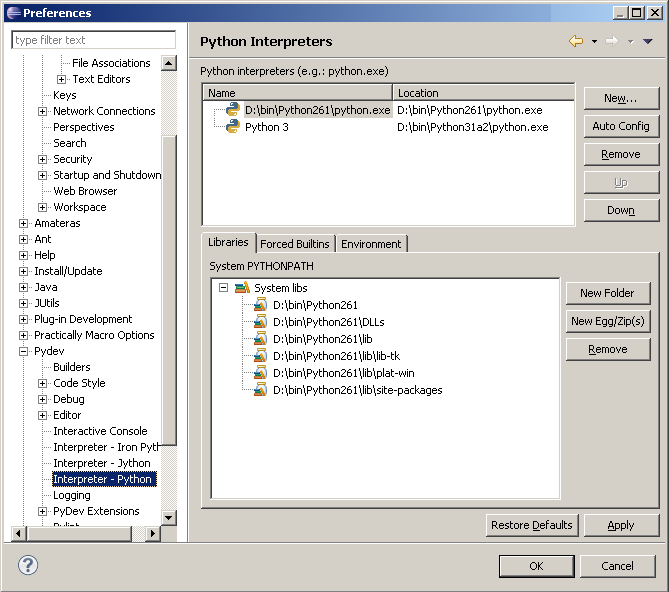
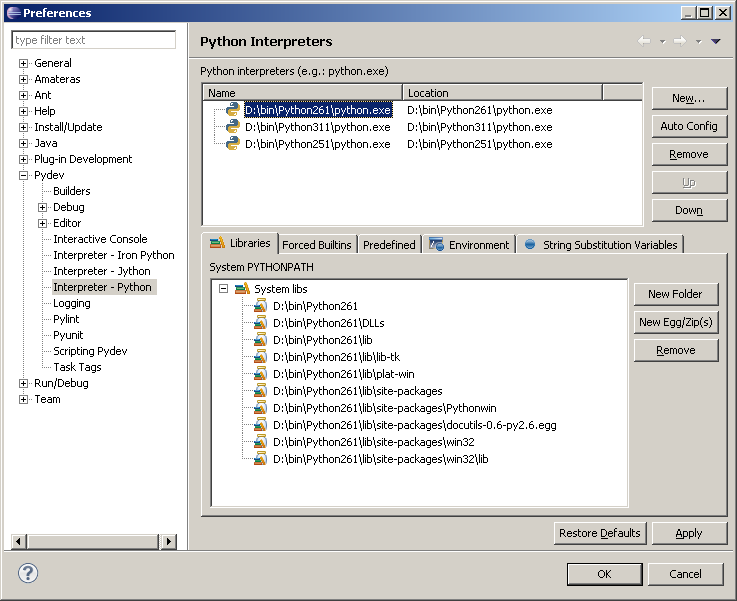
Updating homepage to prepare for upcoming release / new line fixes.

Changed region(s): [[0.0, 0.0, 1.0, 1.0], [0.8969, 0.0, 1.0, 0.0304]]

diff --git a/plugins/com.python.pydev.docs/merged_homepage/manual_101_interpreter.contents.html b/plugins/com.python.pydev.docs/merged_homepage/manual_101_interpreter.contents.html
@@ -5,22 +5,24 @@
 <div class="contents topic" id="contents">
 <p class="topic-title first">Contents</p>
 <ul class="simple">
-<li><a class="reference internal" href="#configure-interpreter" id="id2">Configure Interpreter</a><ul>
-<li><a class="reference internal" href="#how-to-check-if-the-information-was-correctly-gotten" id="id3">How to check if the information was correctly gotten</a><ul>
-<li><a class="reference internal" href="#what-if-it-is-not-correct" id="id4">What if it is not correct?</a></li>
-<li><a class="reference internal" href="#what-if-i-add-something-new-in-my-system-pythonpath-after-configuring-it" id="id5">What if I add something new in my System PYTHONPATH after configuring it?</a></li>
+<li><a class="reference internal" href="#configure-interpreter" id="id3">Configure Interpreter</a><ul>
+<li><a class="reference internal" href="#how-to-check-if-the-information-was-correctly-gotten" id="id4">How to check if the information was correctly gotten</a><ul>
+<li><a class="reference internal" href="#what-if-it-is-not-correct" id="id5">What if it is not correct?</a></li>
+<li><a class="reference internal" href="#what-if-i-add-something-new-in-my-system-pythonpath-after-configuring-it" id="id6">What if I add something new in my System PYTHONPATH after configuring it?</a></li>
 </ul>
 </li>
-<li><a class="reference internal" href="#libraries" id="id6">Libraries</a></li>
-<li><a class="reference internal" href="#id1" id="id7">Forced Builtins</a></li>
-<li><a class="reference internal" href="#environment" id="id8">Environment</a></li>
-<li><a class="reference internal" href="#cygwin-users" id="id9">Cygwin users</a></li>
+<li><a class="reference internal" href="#libraries" id="id7">Libraries</a></li>
+<li><a class="reference internal" href="#id1" id="id8">Forced Builtins</a></li>
+<li><a class="reference internal" href="#id2" id="id9">Predefined Completions</a></li>
+<li><a class="reference internal" href="#environment" id="id10">Environment</a></li>
+<li><a class="reference internal" href="#string-substitution-variables" id="id11">String substitution variables</a></li>
+<li><a class="reference internal" href="#cygwin-users" id="id12">Cygwin users</a></li>
 </ul>
 </li>
 </ul>
 </div>
 <div class="section" id="configure-interpreter">
-<h1><a class="toc-backref" href="#id2">Configure Interpreter</a></h1>
+<h1><a class="toc-backref" href="#id3">Configure Interpreter</a></h1>
 <p>After installing it, the first thing you must do is configure the <strong>Python and/or Jython and/or IronPython</strong> interpreter.
 To configure the interpreter:</p>
 <ol class="arabic">
@@ -37,14 +39,14 @@ To configure the interpreter:</p>
 <p>After those steps, you should have a screen as presented below:</p>
 <div align="center" class="align-center"><img alt="images/interpreter.png" class="snap align-center" src="images/interpreter.png" /></div>
 <div class="section" id="how-to-check-if-the-information-was-correctly-gotten">
-<h2><a class="toc-backref" href="#id3">How to check if the information was correctly gotten</a></h2>
+<h2><a class="toc-backref" href="#id4">How to check if the information was correctly gotten</a></h2>
 <blockquote>
 <p>The <strong>System libs</strong> must contain at least the Lib and the Lib/site-packages directory.</p>
 <p>The <strong>Forced builtin libs</strong> must contain the modules built into the interpreter (and others whose
 analysis should be done dynamically. See: <a class="reference internal" href="#forced-builtins">Forced Builtins</a>).</p>
 </blockquote>
 <div class="section" id="what-if-it-is-not-correct">
-<h3><a class="toc-backref" href="#id4">What if it is not correct?</a></h3>
+<h3><a class="toc-backref" href="#id5">What if it is not correct?</a></h3>
 <blockquote>
 <p>The most common error is having a problem in the environment variables used from the shell that spawned Eclipse,
 in a way that for some reason when getting the variables of one interpreter, it gathers the info from another
@@ -63,7 +65,7 @@ executing interpreterInfo.py in your machine).</p>
 </blockquote>
 </div>
 <div class="section" id="what-if-i-add-something-new-in-my-system-pythonpath-after-configuring-it">
-<h3><a class="toc-backref" href="#id5">What if I add something new in my System PYTHONPATH after configuring it?</a></h3>
+<h3><a class="toc-backref" href="#id6">What if I add something new in my System PYTHONPATH after configuring it?</a></h3>
 <blockquote>
 <p>If you add something to your python installation, you need to either
 add it manually as a 'new folder' in the System PYTHONPATH (if it's still not under a folder in the PYTHONPATH)
@@ -75,7 +77,7 @@ is done, things are set in stone for Pydev)</p>
 </div>
 </div>
 <div class="section" id="libraries">
-<h2><a class="toc-backref" href="#id6">Libraries</a></h2>
+<h2><a class="toc-backref" href="#id7">Libraries</a></h2>
 <blockquote>
 <p>The <strong>System libs</strong> are the libraries that will be added to the PYTHONPATH of any project that is using this interpreter.</p>
 <p>For <strong>Python and IronPython</strong>, it's composed of <strong>folders, zip files and egg files</strong>. Note that if dlls should be added to
@@ -86,9 +88,11 @@ imported in the code (the case is important). I.e.: if you want to import iTextD
 </blockquote>
 </div>
 <div class="section" id="id1">
-<h2><a class="toc-backref" href="#id7"><span class="target" id="forced-builtins">Forced Builtins</span></a></h2>
+<h2><a class="toc-backref" href="#id8"><span class="target" id="forced-builtins">Forced Builtins</span></a></h2>
 <blockquote>
-<p>The Forced builtin libs are the libraries that are built-in the interpreter, such as <strong>__builtin__, sha, etc</strong>.</p>
+<p>The Forced builtin libs are the libraries that are built-in the interpreter, such as <strong>__builtin__, sha, etc</strong> or
+libraries that should forcefully analyzed through shell introspection (the other option to analyze modules
+with too much runtime information is providing <a class="reference internal" href="#predefined-completions">Predefined Completions</a>).</p>
 <p>For <strong>Python</strong>, you should have around <strong>50</strong> entries</p>
 <p>For <strong>Jython</strong> around <strong>30</strong> entries.</p>
 <p>For <strong>IronPython</strong> more than <strong>100</strong> entries. All the packages built into .NET should be included here -- e.g.:
@@ -101,14 +105,66 @@ thing is that they <strong>must</strong> be on your system pythonpath (otherwise
 </blockquote>
 <div align="center" class="align-center"><img alt="images/interpreter_forced_builtins.png" class="snap align-center" src="images/interpreter_forced_builtins.png" /></div>
 </div>
+<div class="section" id="id2">
+<h2><a class="toc-backref" href="#id9"><span class="target" id="predefined-completions">Predefined Completions</span></a></h2>
+<blockquote>
+<p>Predefined completions are completions acquired from sources that provide only the interfaces for
+a given Python module (with Python 3.0 syntax).</p>
+<p>A predefined completion module may be created by having a module with the extension &quot;.pypredef&quot;
+with regular Python 3.0 contents, but with attributes having assigns to its type and methods having
+as the body a sole return statement and having anything in the docstring.</p>
+<p>Example for a <strong>my.source.module</strong> (must be declared in a <strong>my.source.module.pypredef</strong> file):</p>
+<div class="highlight" style="background: #f8f8f8"><pre style="line-height: 125%">MyConstantA <span style="color: #666666">=</span> <span style="color: #008000">int</span>
+MyConstantB <span style="color: #666666">=</span> <span style="color: #008000">int</span>
+
+<span style="color: #008000; font-weight: bold">class</span> <span style="color: #0000FF; font-weight: bold">MyClass</span>:
+
+    instanceAttribute <span style="color: #666666">=</span> QObject
+
+    <span style="color: #008000; font-weight: bold">def</span> <span style="color: #0000FF">__init__</span>(<span style="color: #008000">self</span>, parent<span style="color: #666666">=</span><span style="color: #008000">None</span>):
+        <span style="color: #BA2121; font-style: italic">&#39;&#39;&#39;</span>
+
+<span style="color: #BA2121; font-style: italic">        @type parent: QObject</span>
+<span style="color: #BA2121; font-style: italic">        &#39;&#39;&#39;</span>
+
+    <span style="color: #008000; font-weight: bold">def</span> <span style="color: #0000FF">registerTimer</span>(interval, <span style="color: #008000">object</span>):
+        <span style="color: #BA2121; font-style: italic">&#39;&#39;&#39;</span>
+
+<span style="color: #BA2121; font-style: italic">        @type interval: int</span>
+<span style="color: #BA2121; font-style: italic">        @type object: QObject</span>
+<span style="color: #BA2121; font-style: italic">        &#39;&#39;&#39;</span>
+        <span style="color: #008000; font-weight: bold">return</span> <span style="color: #008000">int</span>
+</pre></div>
+<p><strong>Note 1</strong>: the name of the file is the exact name of the module</p>
+<p><strong>Note 2</strong>: .pypredef files are not searched in subfolders</p>
+<p><strong>Optionally a QScintilla .api file may be added</strong>. When this is done, Pydev will try to create
+.pypredef files from that .api file and will add the folder containing those to the PYTHONPATH.
+Note that this conversion is still in beta and the file may not be correctly generated, so,
+keep an eye for errors logged when a code-completion that would use those modules (while it
+will not fail, those completions won't be shown using the .pypredef files).
+In those situations, please create a bug-report with the .api file that generated incorrect code.</p>
+</blockquote>
+<div align="center" class="align-center"><img alt="images/interpreter_predefined.png" class="snap align-center" src="images/interpreter_predefined.png" /></div>
+</div>
 <div class="section" id="environment">
-<h2><a class="toc-backref" href="#id8">Environment</a></h2>
+<h2><a class="toc-backref" href="#id10">Environment</a></h2>
 <blockquote>
 The variables defined at the environment will be set as environment variables when running a script that uses the
-given interpreter (note that it can still be overridden in the run configuration)</blockquote>
+given interpreter (note    that it can still be overridden in the run configuration)</blockquote>
+</div>
+<div class="section" id="string-substitution-variables">
+<h2><a class="toc-backref" href="#id11">String substitution variables</a></h2>
+<blockquote>
+<p>Strings defined here may be used in:</p>
+<ul class="simple">
+<li>project configuration for source folders and external libraries</li>
+<li>launch configuration for the main module</li>
+</ul>
+<p>They can be used in those places in the format: ${DECLARED_VARIABLE}</p>
+</blockquote>
 </div>
 <div class="section" id="cygwin-users">
-<h2><a class="toc-backref" href="#id9">Cygwin users</a></h2>
+<h2><a class="toc-backref" href="#id12">Cygwin users</a></h2>
 <blockquote>
 Pydev currently has no support for cygwin. Currently you'll be able to configure the interpreter
 with cygwin, but there are still other related problems (mostly on converting between windows and cygwin paths as needed).</blockquote>

diff --git a/plugins/com.python.pydev.docs/build_python_code_block.py b/plugins/com.python.pydev.docs/build_python_code_block.py
@@ -1,0 +1,91 @@
+# -*- coding: utf-8 -*-
+"""
+
+Requisites to use
+    - Pygments
+    - Beautifulsoup
+    - markdown
+    - docutils
+
+
+    The Pygments reStructuredText directive
+    ~~~~~~~~~~~~~~~~~~~~~~~~~~~~~~~~~~~~~~~
+
+    This fragment is a Docutils_ 0.5 directive that renders source code
+    (to HTML only, currently) via Pygments.
+
+    To use it, adjust the options below and copy the code into a module
+    that you import on initialization.  The code then automatically
+    registers a ``sourcecode`` directive that you can use instead of
+    normal code blocks like this::
+
+        .. sourcecode:: python
+
+            My code goes here.
+
+    If you want to have different code styles, e.g. one with line numbers
+    and one without, add formatters with their names in the VARIANTS dict
+    below.  You can invoke them instead of the DEFAULT one by using a
+    directive option::
+
+        .. sourcecode:: python
+            :linenos:
+
+            My code goes here.
+
+    Look at the `directive documentation`_ to get all the gory details.
+
+    .. _Docutils: http://docutils.sf.net/
+    .. _directive documentation:
+       http://docutils.sourceforge.net/docs/howto/rst-directives.html
+
+    :copyright: Copyright 2006-2010 by the Pygments team, see AUTHORS.
+    :license: BSD, see LICENSE for details.
+"""
+
+# Options
+# ~~~~~~~
+
+# Set to True if you want inline CSS styles instead of classes
+INLINESTYLES = True
+
+from pygments.formatters import HtmlFormatter
+
+# The default formatter
+DEFAULT = HtmlFormatter(noclasses=INLINESTYLES)
+
+# Add name -> formatter pairs for every variant you want to use
+VARIANTS = {
+    # 'linenos': HtmlFormatter(noclasses=INLINESTYLES, linenos=True),
+}
+
+
+from docutils import nodes
+from docutils.parsers.rst import directives, Directive
+
+from pygments import highlight
+from pygments.lexers import get_lexer_by_name, TextLexer
+
+class Pygments(Directive):
+    """ Source code syntax hightlighting.
+    """
+    required_arguments = 1
+    optional_arguments = 0
+    final_argument_whitespace = True
+    option_spec = dict([(key, directives.flag) for key in VARIANTS])
+    has_content = True
+
+    def run(self):
+        self.assert_has_content()
+        try:
+            lexer = get_lexer_by_name(self.arguments[0])
+        except ValueError:
+            # no lexer found - use the text one instead of an exception
+            lexer = TextLexer()
+        # take an arbitrary option if more than one is given
+        formatter = self.options and VARIANTS[self.options.keys()[0]] or DEFAULT
+        parsed = highlight(u'\n'.join(self.content), lexer, formatter)
+        return [nodes.raw('', parsed, format='html')]
+
+directives.register_directive('sourcecode', Pygments)
+

diff --git a/plugins/com.python.pydev.docs/build_both.py b/plugins/com.python.pydev.docs/build_both.py
@@ -13,6 +13,8 @@ else:
     LAST_VERSION_TAG = '1.5.4' #Not specified (let's leave one there)
 
 
+import build_python_code_block
+
 
 #=======================================================================================================================
 # BuildFromRst
